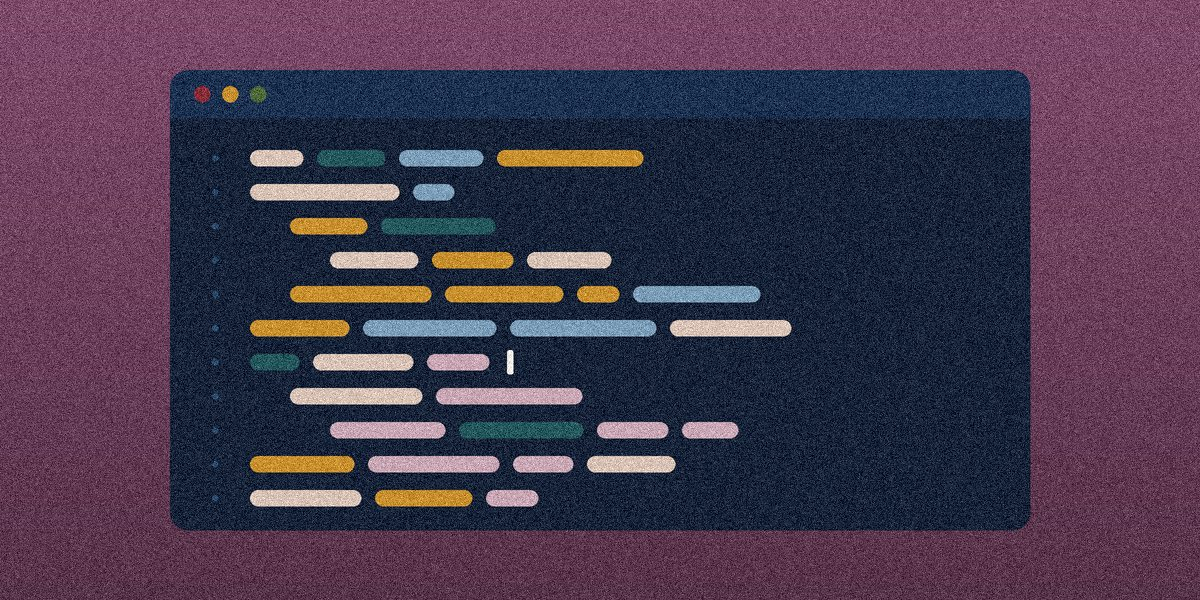
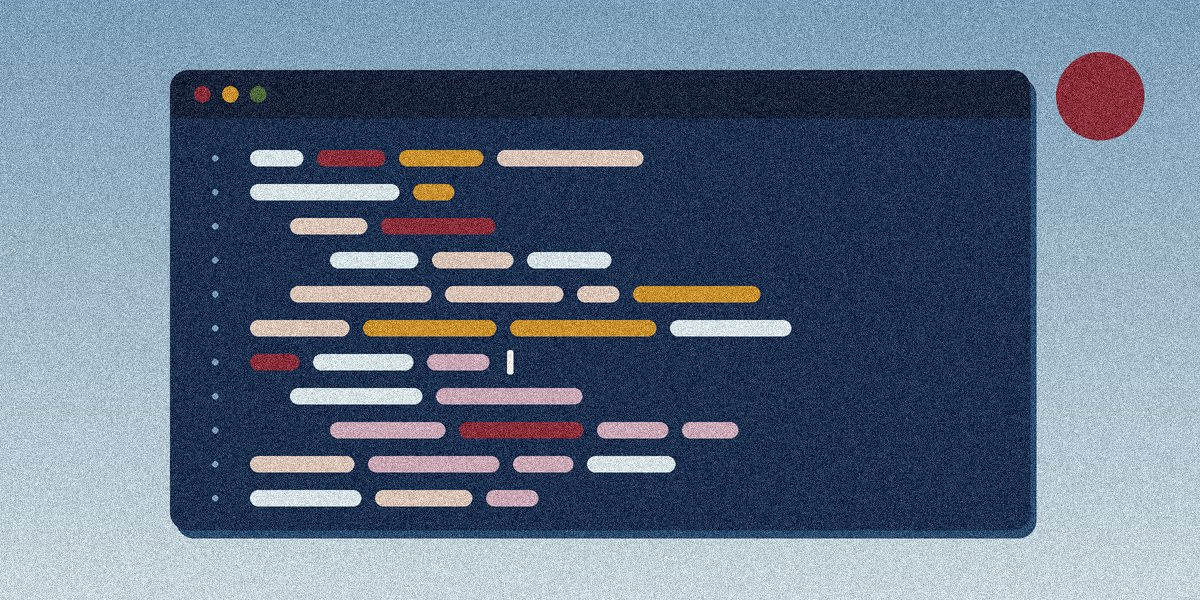
Vibes tech: Code window recoloured (sky background, indigo editor, warm code bars)
Claude-Session: https://claude.ai/code/session_01CPFfiZz4rjPwAdTY8Ptavd

diff --git a/art/vibes/tech.py b/art/vibes/tech.py
@@ -51,22 +51,23 @@ sea(im, 470, c['teal'], c['foamb'], gap=16, amp=3, freq=30)
 finish(im, OUT + 'tech_03_headphones.jpg', seed=43)
 
 # 4 Code window: an editor at night, code as coloured bars, a blinking caret
-im = canvas(c['plum'], c['deep'], 1)
-rr(im, 170, 70, 1030, 530, 18, c['navy'])
-rr(im, 170, 70, 1030, 118, 18, c['indigo']); rr(im, 170, 100, 1030, 118, 0, c['indigo'])
+im = canvas(c['skyb'], c['mist'], 1)
+disc(im, 1100, 96, 44, c['wine'])
+rr(im, 176, 78, 1036, 538, 18, c['prussian'])
+rr(im, 170, 70, 1030, 530, 18, c['indigo'])
+rr(im, 170, 70, 1030, 118, 18, c['navy']); rr(im, 170, 100, 1030, 118, 0, c['navy'])
 for k, col in enumerate([c['wine'], c['ochre'], c['moss']]): disc(im, 202 + k*28, 94, 8, col)
 rng = np.random.default_rng(44)
 y = 150
 for ln in range(11):
-    disc(im, 215, y + 8, 3, c['prussian'])
+    disc(im, 215, y + 8, 3, c['skyb'])
     x = 250 + (ln in (2, 3, 4, 7, 8)) * 40 + (ln in (3, 8)) * 40
     for seg in range(rng.integers(2, 5)):
         w_ = int(rng.integers(40, 150))
-        rr(im, x, y, x + w_, y + 16, 8, [c['skyb'], c['mauve'], c['ochre'], c['teal'], c['clay']][int(rng.integers(0, 5))])
+        rr(im, x, y, x + w_, y + 16, 8, [c['ochre'], c['mauve'], c['clay'], c['wine'], c['foamb']][int(rng.integers(0, 5))])
         x += w_ + 14
     if ln == 6: rr(im, x + 4, y - 4, x + 10, y + 20, 2, c['paper'])
     y += 34
-disc(im, 1040, 120, 0, c['wine'])
 finish(im, OUT + 'tech_04_code.jpg', amt=15, seed=44)
 
 # 5 Loading: a progress ring eclipsing the sun, a progress bar for a horizon
